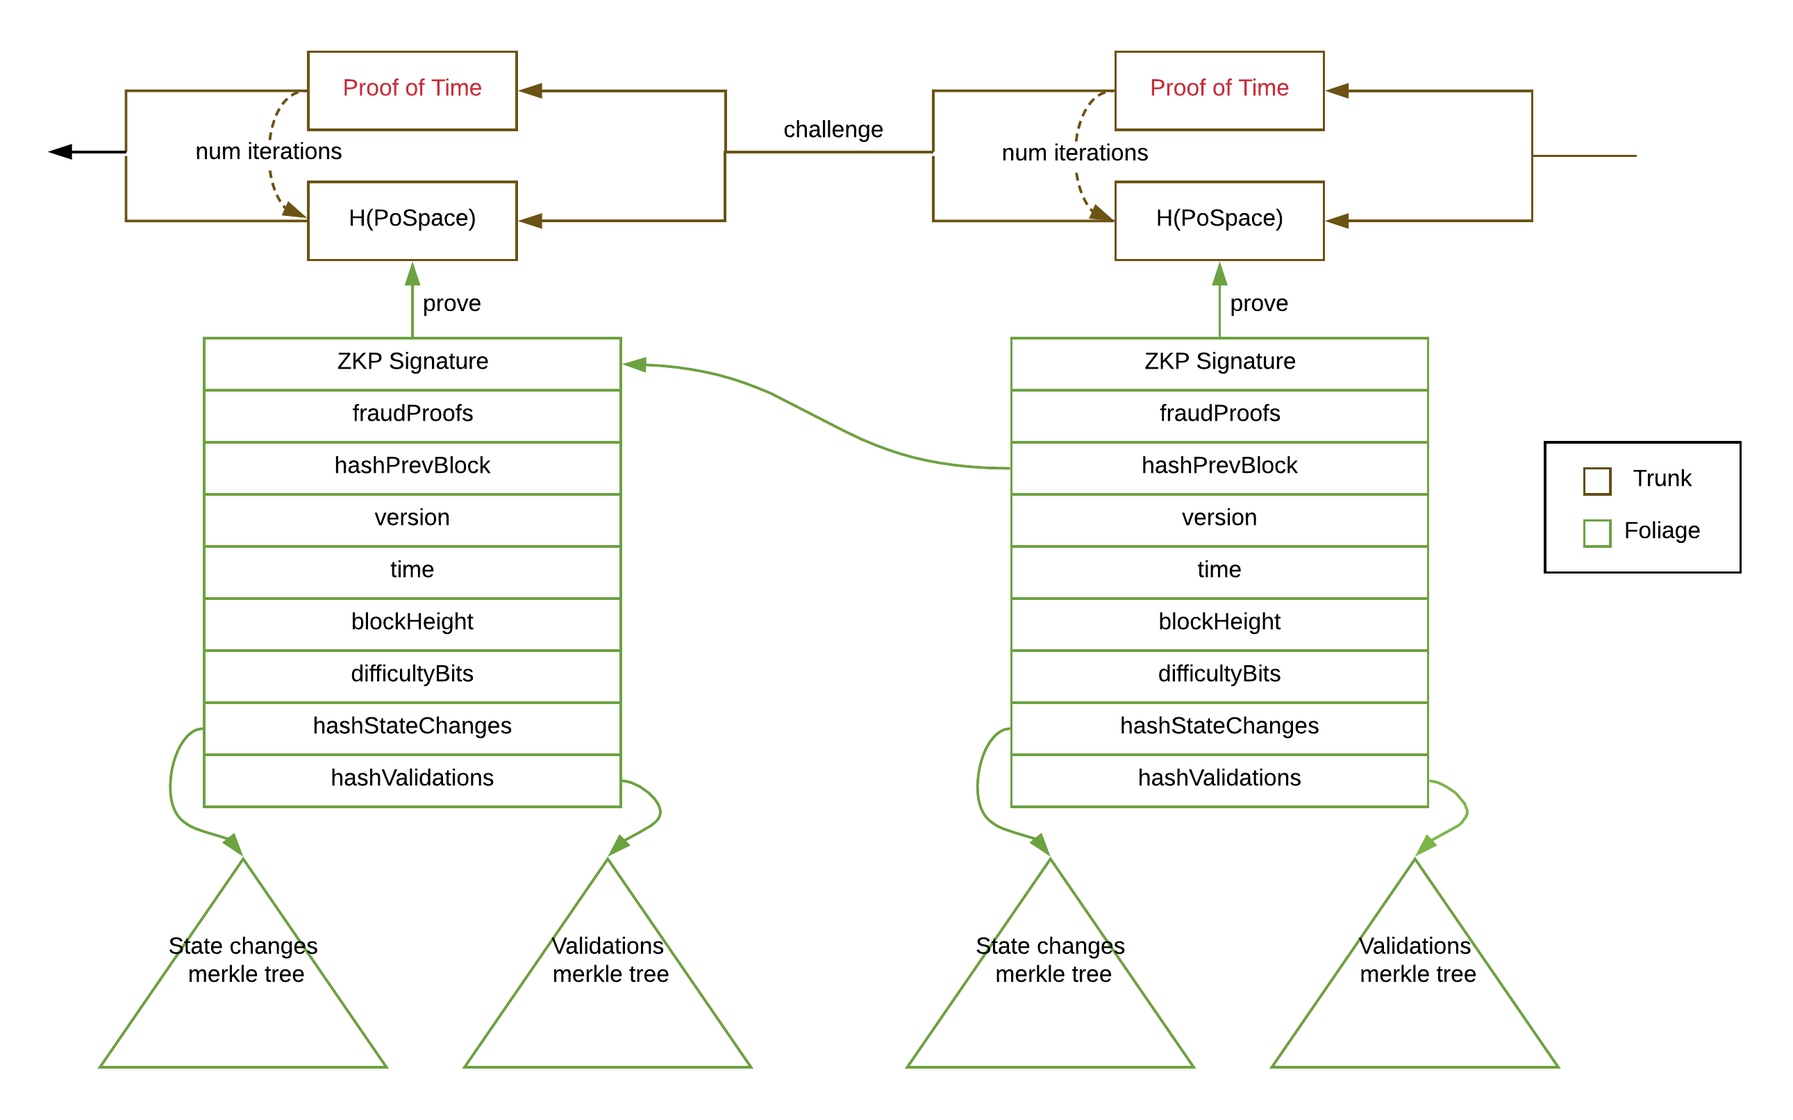
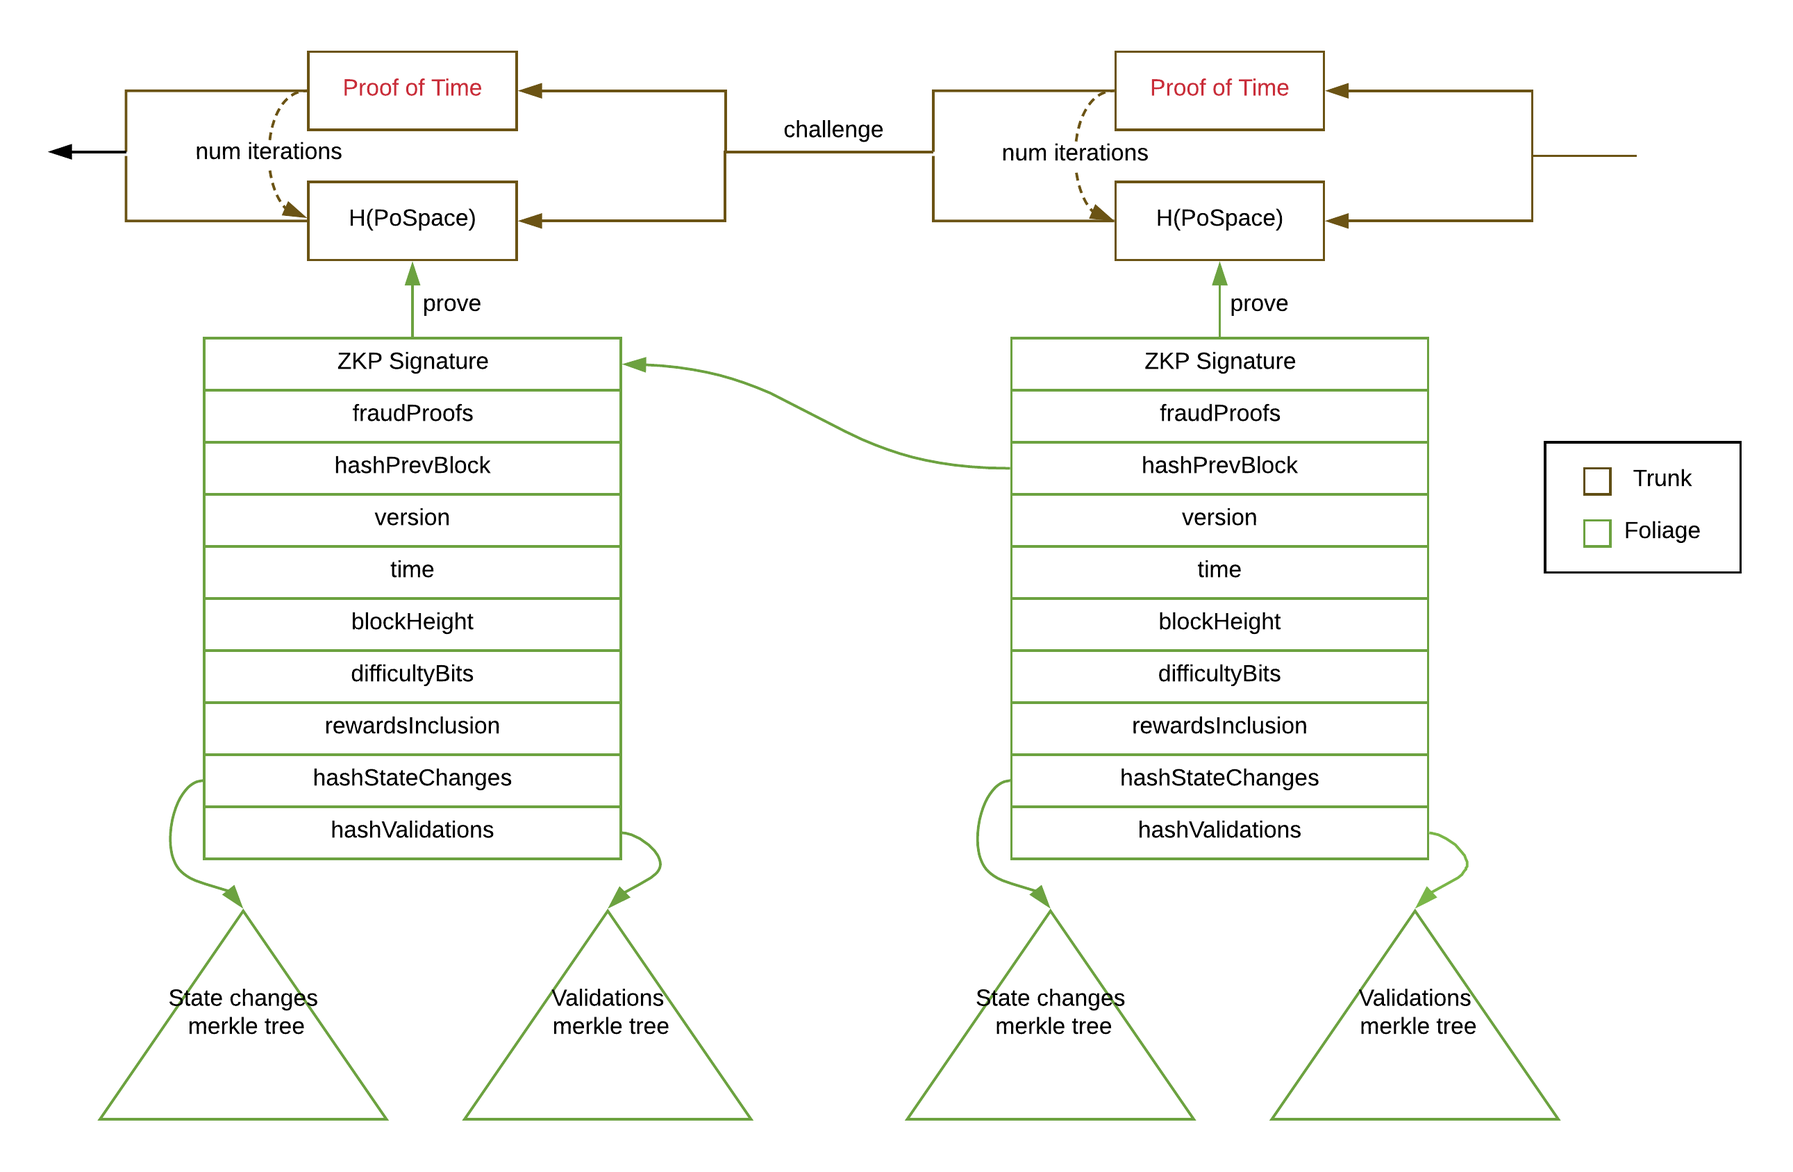
Add rewards chains

diff --git a/chip018.md b/chip018.md
@@ -1,0 +1,74 @@
+chip018 -- Rewards Chains
+
+## Abstract
+
+Rewards chains are mostly independent blockchains that run parallel to the main Chia blockchain, similar to sidechains, which give out the same rewards as the main blockchain, in the same coin, in order to reduce variability of rewards and reduce the incentive for pools.
+Farmers farm on all chains, and transfer their rewards to the main chain.
+
+## Chia Rewards Chains (Figure 1)
+![Chia Rewards Chains](/assets/chip0018/rewards_chains.png "Chia Rewards Chains")
+
+## Specification
+
+In the Chia network, instead of there being only one blockchain that gives out rewards,
+as in Bitcoin, there will be one main blockchain, and C rewards blockchains, or rewards chains.
+
+The rewards chains will be identical to the main chain in the number of rewards that they give out, according to the reward schedule.
+For example, if the main chain halves rewards at height 100,000, the rewards chains do as well.
+
+The rewards chains are also mostly independent of the main chain.
+They have their own difficulty, and difficulty resets, proofs of space, proofs of time, and fraud proofs.
+Farmers should mine on all blockchains at once, which will result in similar difficulty and length of each chain. A similar construction can work with Bitcoin, if the chains support some sort of merge mining. With proof of space, a farmer can easily farm on all chains at the same time, by checking their storage whenever a new block is revealed, on any chain.
+
+Transactions can only be included in the main chain. There is no state changes merkle root, or validations merkle root.
+This keeps the system simple, although it still requires transferring rewards from the rewards chains into the main chain.
+
+
+In order to transfer rewards, all Chia nodes maintain a list of blocks from all rewards chains.
+Farmers can include blocks (block hash) from other rewards cha8ins in the main chain header, as long as the weight of the included block is greater than the weight of the previous included block from that rewards chain.
+For example (Figure 1), if the last included block from rewards chain 2 had height 4, the next included block from that rewards chain must have height of at least 5 (or more work, if there is a work difficulty reset).
+This also allows for reorgs. As can be seen in Figure 1, a farmer includes block 5 of rewards chain 2, causing a reorg in that rewards chain, without requiring a reorg in the main chain.
+After D blocks, this included block becomes finalized, or checkpointed, and the rewards from that block can be spent.
+Note that these are not hard checkpoints: in theory they can be reversed, but they require a long reorg in the main chain.
+D will be significantly greater than the lock of the main chain rewards. This is because blocks might take a while to be included in the main chain, so larger reorgs of the rewards chains within the main chain are more likely.
+
+
+Each node must keep track of the state of all C + 1 chains, but also keep track of the state of the rewards chains as they are included and reorged within the main chain.
+SPV clients do not download or verify all of the block headers in the rewards chains, they simply check for inclusion of block hashes within the block headers of the main chain.
+The version number of an included rewards chain block must be the same or lower than the main chain in order to be included.
+
+## Parameters
+Network parameter C: number of rewards chains
+
+Network parameter D: depth of reward chain block required for spending rewards
+
+
+## Rationale
+
+The purpose of the rewards chains are to reduce the variability of the farming rewards, without decreasing the security of the system.
+The simplest way to do this is to increase the block rate (reduce block time), but this can have a centralizing effect by giving advantages to large miners with zero block propogation time, and also add incentive to pooling.
+In most cryptocurrencies, pools are very dangerous centralized entities, that have the power to cause damage to their own, or other coins. Although decentralized pools like P2Pool exist, there is no real incentive to use them, and they suffer from security issues and lower smoothness than centralized pools.
+The main purpose of pools is to increase rewards smoothness, and lower the amount of time that miners/farmers must wait until they get paid. Rewards chains make rewards C + 1 times more common for everyone on chain, without reducing security.
+
+
+Since proof of space does not require intensive computation or lookups, farmers can easily farm on all rewards chains simultaneously, which will lead to very similar difficulty on all chains.
+A similar effect might lead other cryptocurrencies to adopt the same proof of space algorithm, allowing easy "merge farming" without having to adopt complex protocols.
+Since there are no transactions or validations on these chains, full nodes can easily download all the headers of all chains, without incurring much cost to bandwidth, processing, or storage.
+
+The checkpointing of blocks before their rewards can be spent is important, because it guarantees that a rewards chain reorg will not cause any issues in the main chain.
+
+One potential issue with the number of rewards chains is the imbalance between block rewards or transaction fees.
+Transaction fees are only given in the main chain: they cannot be split between all the chains, because that would lead to users paying farmers under the table, to get their transaction included in the main chain.
+Since all transaction fees are given out to farmers that win blocks in the main chain, there can be a scenario where transaction fees are much greater than the block reward in the main chain.
+For example, if there are 1000 chains, the main chain rewards will be 1/1000 of the total, and thus transaction fees might be greater than this. This can lead to adverse mining incentives like not following the heavient main chain, but following a main chain which will lead to a greater amount of claimed fees.
+Therefore, the total number of rewards chains should be kept relativily small
+
+
+Another potential issue (or feature) is that more proof of time servers are required to keep working on all of the rewards chains.
+
+## Questions / Notes
+1. Should we incentivize inclusing of blocks from rewards chains in order to make sure that the main chain is up to date? If the main chain is rarely updated with new reward blocks, this increases the chance that a shorter fork will be finalized/checkpointed.
+2. How long do farmers have to wait to claim there rewards? If we reward inclusion, I think this can be relatively short.
+3. Is farmer storage fast enough to do all the lookups necessary?
+4. Should nodes keep old forks of rewards chains in case there is a massive reorg that "uncheckpoints" blocks?
+5. Will a checkpoint ever be reversed? What would be the impact of that?

diff --git a/notes/attacks.md b/notes/attacks.md
@@ -3,19 +3,21 @@
 1. 51% attack: A farmer has more than 51% of the total hashpower, they can force arbitrary long reorgs, reverse or censor any transaction, claim all of the rewards, stop the network from running or getting any transactions in. Should not be a problem if network is large enough. However, this means we need a significant proportion of the world's storage on the system, to defend against google, NSA, etc.
 2. 49% attack
     - Ask james
-3. Fast VDF attack: an attacker has a faster VDF than anyone else, and does not expose it publicly. This means they can get more out of their space than anyone else. This makes a 51% much cheaper for them. Also, it allows them to charge people for the VDF services. 
+3. Fast VDF attack: an attacker has a faster VDF than anyone else, and does not expose it publicly. This means they can get more out of their space than anyone else. This makes a 51% much cheaper for them. Also, it allows them to charge people for the VDF services.
     - TODO: compute formula for how much advantage attacker gets, with a p% faster VDF.
 4. Grinding attack: This is the attack where a farmer can try many possible combinations in order to see which one gives them the best proof of stake.
-    - By default, grinding is prevented by making POS and VDF canonical, so you can only come up with one solution with the space that you have. 
+    - By default, grinding is prevented by making POS and VDF canonical, so you can only come up with one solution with the space that you have.
     - There is one attack where the farmer replots their hard drive very fast, with a fast CPU and fast drives. They will only have a very short time to do this though.
     - Another grinding option is if the work difficulty can be set arbitrarily, then the attacker can grind on that difficulty field, although it's invalid since it must be computed from all the blocks.
-5. Encryption attack: the pool encrypts all of their data and puts it in the farmer's hard drive. 
-Then they ask for the data on every block, making it impossible for the farmer to see the proof of space, and thus impossible to steal rewards from pool (See CHIP14). 
+5. Encryption attack: the pool encrypts all of their data and puts it in the farmer's hard drive.
+Then they ask for the data on every block, making it impossible for the farmer to see the proof of space, and thus impossible to steal rewards from pool (See CHIP14).
     - One variant of this is where the user downloads the encrypted data. This requires a lot of bandwidth, however it might be practical in the future.
-    - Another variant is where a reseller or HDD manufacturer ships the HDD with the encrypted data already on there, or user send it by snail mail and gets it back. 
+    - Another variant is where a reseller or HDD manufacturer ships the HDD with the encrypted data already on there, or user send it by snail mail and gets it back.
     It might be a practical business model to resell hard drives with plots on them, and get the fees. Luckily thats a low barrier to entry market.
-6. Proof of space efficiency innovations: an attacker can figure out a more efficient way to store the tables and get an advantage this way.
-7. Selfish farming attack: similar to selfish mining on Bitcoin. A farmer can choose to withhold his solution, and gain some advantage. Not clear if it's exactly the same, needs more analysis.
+6. Obfuscated computation attack: This is an attack that allows pooling. The pool encrypts a program, and user uses this program to perform plotting, without seeing the key. A variant of this can be performed with secure hardware like the intel SGX. A pool can put the salt in the intel SGX, and give it to the user, and it performs all the plotting. So user basically cannot see the secret key/salt, and thus cannot control their own plot.
+7. Partial hash computation: If using H(salt || x) for plotting, and if using a hash function like pedersen or merkle damgard, the pool can compute a partial computation of the hash function, and give this to the user. The user can then perform the rest of the plotting, without finding out the key. This means pooling can happen easily.
+7. Proof of space efficiency innovations: an attacker can figure out a more efficient way to store the tables and get an advantage this way.
+8. Selfish farming attack: similar to selfish mining on Bitcoin. A farmer can choose to withhold his solution, and gain some advantage. Not clear if it's exactly the same, needs more analysis.
 
 ## Other attacks
 1. Eclipse attack: Node surrounds another node and gives them false information, censors transactions, etc.

diff --git a/chip014.md b/chip014.md
@@ -55,10 +55,10 @@ The relation above implies:
 - Every level of the proof of space must validate, making it computationally unfeasible to find a proof of space without storing tables for all of these levels.
 
 
-When looking at a new proof, a node must check that the ZKP validates correctly, that the block that is being validated corresponds to the value B, and 
+When looking at a new proof, a node must check that the ZKP validates correctly, that the block that is being validated corresponds to the value B, and
 that the proof of time performs `(d (C - S) / m) + t0 ` iterations. `d` and `t0` are constants that ensure that it takes 5 minutes on average, and 1 minute even with a perfect PoSpace.
 
-The hash function is truncated to a smaller size for smaller plots, so the circuit to satisfy the above relation depends of the size of the plot, and thus on `m`. 
+The hash function is truncated to a smaller size for smaller plots, so the circuit to satisfy the above relation depends of the size of the plot, and thus on `m`.
 This means we will need to create multiple circuits for each valid bit length `m`, or the relation will need to additionally prove that length `m` is used.
 
 ## Non Outsourceability Proof
@@ -73,13 +73,13 @@ This means we will need to create multiple circuits for each valid bit length `m
     - Assuming that the zero knowledge proof system used is computationally zero knowledge, the adversary will not be able to obtain any info from the proof. For the foliage, the farmer can just create a block with a brand new public key in the coinbase transaction, and no other differentiating factors that would identify the farmer. For the trunk, since the H(PoSpace) is completely canonical, the adversary cannot differentiate the farmer's H(PoSpace) with any other proofs of space, without knowing `s`  and every ` x_1 ... x_2^k` .
 
 ##  Questions / Notes
-- Q1: Which hash functions do we use? Could use pedersen hash function with jub jub like zcash, maybe MiMC:w
+- Q1: Which hash functions do we use? Could use pedersen hash function with jub jub like zcash, maybe MiMC
 - Q2: Do we need a different hash function for the final function?
 - Q3: Which ZKP technique to use? Bulletproofs require no trusted setup, are fast to prove, but are relatively large and slow to verify. zkSnarks are small and fast to verify, but require a trusted setup and take a long time to prove. Starks have no trusted setup but are very large. Also need to decide on curves..
 - Q4: Should we have different levels of rewards, in order to minimize the variance in rewards?
 - Q5: Can we reveal the output of the individual hash functions in the levels of the pyramid?
 - Q6: How fast does the hash function need to be? Pedersen hash with jub jub is quite slow.
-- Q7: Collision resistance necessary? 
+- Q7: Collision resistance necessary?
 - Q8: Upper limit for verification time and size of proof? 1kb and 100 ms? If we can batch proofs between multiple blocks that would be great. SPV needs to download and verify every header.
 - Q9: Attack where all values are encrypted with pool operator's keys. Need to address.
 - Q10: Attack where only some values are encrypted with pool operator's keys.

diff --git a/notes/p2pool.md b/notes/p2pool.md
@@ -1,0 +1,29 @@
+P2Pool
+
+P2Pool is a decentralized mining pool for Bitcoin, BCH, Dash, Litecoin, etc. The
+purpose of P2Pool is to provide a decentralized alternative to centralized mining pools.
+P2Pool requires miners to run their own full node, and create a coinbase transaction
+paying everyone that has been contributing to the pool.
+
+In order to come to consensus on how much each miner should be paid in the
+coinbase transaction, a separate blockchain, called the sharechain, is created. The
+sharechain is composed of Bitcoin shares / blocks, that have a lower difficulty requirement
+than the main blockchain. It also has a much smaller block time, in order to reduce
+variance. For example, the Bitcoin P2Pool has a 30 second block time. If 1% of the miners
+are in the pool, the expected time to reward is 0.01 * 30/600 = 0.0005 times in P2Pool, as it is on the main chain. While this variance is not as low as in centralized pools, it is much better than solo mining.
+
+When miners find a block that is good enough to make it into the sharechain, they submit it to the sharechain network. Some of these will be good enough to make it into the main chain. If so, the reward pays out to last 8640 shares.
+
+Benefits of P2Pool:
+* Decentralized minining, reduce the potential attack surface by large pools
+
+P2Pool has several major issues, that may or may not have solutions:
+1. It does not prevent centralized mining. They can always pool together, even if P2Pool is used. Actually, miners today, in Bitcoin, are pooling into one node, which participated in P2Pool.
+2. No incentive to join P2P pool vs joining a centralized pool.
+3. It can be 51% attacked (someone with more than 51% of the pools hashpower can claim all
+of the rewards. This is easy to obtain, assuming the P2Pool only has a very small fraction of the entire network's hashpower. If it has a large fraction of the hashpower, then the variance of the rewards will be very high, and therefore miners will want to join a centralized pool instead). It seems like P2Pool is not practical for small miners. This is what we see currently in Bitcoin.
+4. Block times: with Bitcoin, 10 min is a long time, so even 30 second block times provides a large decrease in reward variabiliy. For shorter main chain block times, P2Pool provides less benefits.
+5. Large coinbase transaction, there is probably an upper limit on how many miners can join
+such a pool since you need to pay everyone in the coinbase transaction.
+6. Dust transaction: if you are receiving only a few cents of rewards, then it might become dust / unspendable.
+7. High stale rate: reducing the block time significantly causes high orphan/stale rate.

diff --git a/chip017.md b/chip017.md
@@ -15,7 +15,7 @@ In the diagram above, the arrows signify a dependency on (or a commitment to) wh
 
 The trunk section includes a proof of time and proof of space.
 Both take in a challenge from the trunk of the previous block. The challenge can be `H(PoT output || H(PoSpace) || difficultyReset)`
-This commits to both the proof of space and proof of time of the previous block. 
+This commits to both the proof of space and proof of time of the previous block.
 The Proof of time itself, is two values: the output of the VDF, and the proof that the VDF was correctly computed.
 The proof of time uses the challenge as an input to the verifiable delay function.
 The proof of space uses the challenge as the target value when looking up the proof of space in the storage. The actual proof of space is not revealed in the trunk: only the hash is.
@@ -25,6 +25,8 @@ The trunk will also include an occasional work difficulty reset.
 The foliage includes the rest of the block header, and the block data. The signature in the block, is a proof of knowledge of the preimage of `H(PoSpace)`, signing the rest of the fields in the block header.
 
 During operation of the protocol, farmers build blocks with the PoSpace and signature, and broadcast these. Proof of time servers then add the Proof of Time on top of these blocks, to finalize them.
+
+Furthermore, Chia will also have a number of parallel rewards chains, which are identical, but do not contain `hashStateChanges`, `hashValidations`, and `rewardInclusion`.
 
 ## Rationale
 
@@ -38,4 +40,4 @@ A notable exception is where a work difficulty reset has to happen. In this case
 
 ## Questions / Notes
 - Q1: Krzysztof made the point that the VDF does not really have to commit to the previous block's PoSpace, since it already kind of does, from the number of iterations. However, it allows for more flexibility to commit to it. for example, we can allow different number of iterations in the future...
-I think the same thing can be said about including the proof of space in the challenge for the next proof of space. 
+I think the same thing can be said about including the proof of space in the challenge for the next proof of space.

diff --git a/chip004.md b/chip004.md
@@ -15,12 +15,14 @@ Adding additional information to the block header simplifies verification, and a
 Each block header MUST include two 32 byte fields: `hashStateChanges` and `hashValidations`. These fields represent the merkle root of trees committing to TXOs created and consumed, and the witnesses and ancillary information. The block header is constructed as follows:
 
 ```
-[PoSpace][PoET][signature][version][hashPrevBlock][hashStateChanges][hashValidations][time][blockHeight][difficultyBits] 
+[PoSpace][PoET][signature][version][hashPrevBlock][rewardsInclusion][hashStateChanges][hashValidations][time][blockHeight][difficultyBits]
 ```
 
 The `hashStateChanges` tree is constructed by creating a Merkle Tree from the list of all inputs consumed by the block, and the list of outputs created in the block. Each node includes additional information describing how many TXOs are created in transactions summarized by that node. As such, a proof in this tree can establish the index in the block of any TXO. Transactions are sorted lexically. Inputs are sorted to match transactions. As such there is a canonical structure for the tree.
 
 The `hashValidations` tree is constructed by creating tuples of `(witnessInfo, witness)` for each input, in the same order they appear in the `hashStateChanges` tree. After the tuples corresponding to the inputs of a single transaction the aggregate signature for that transaction is included. This gives the tree a canonical order that intuitively matches the `hashStateChanges` tree.
+
+The `rewardsInclusion` field allows the farmer to include rewards from other rewards chains, updating the head pointers to the other chains. See chip17 for more details.
 
 The `signature` is a zero knowledge proof of knowledge of the proof of space, that also commit to and signs the rest of the block, apart from the PoET. This is described in detail in Chip 14.
 
